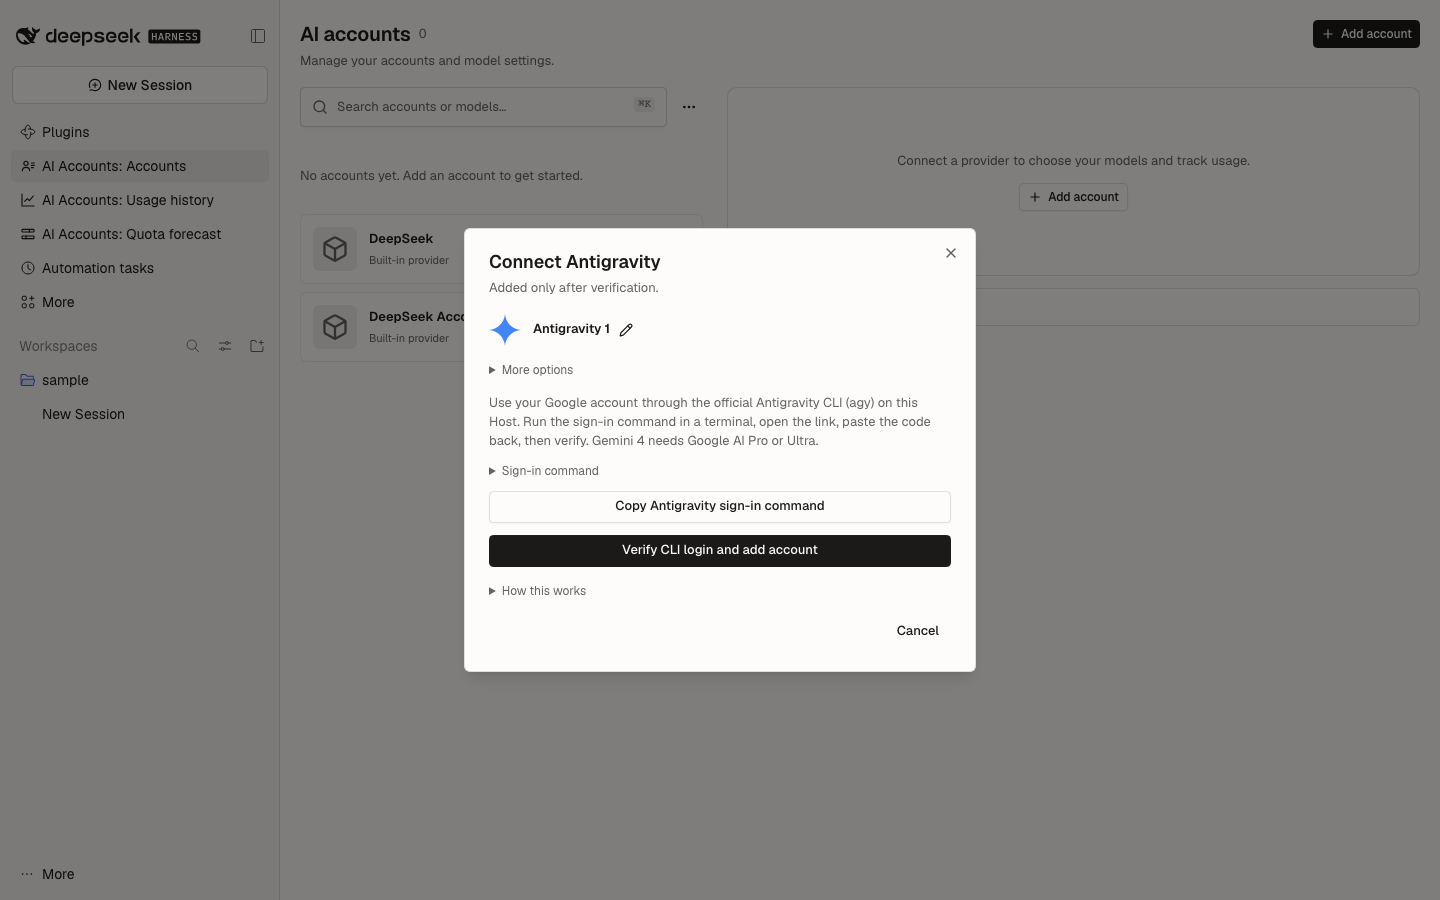
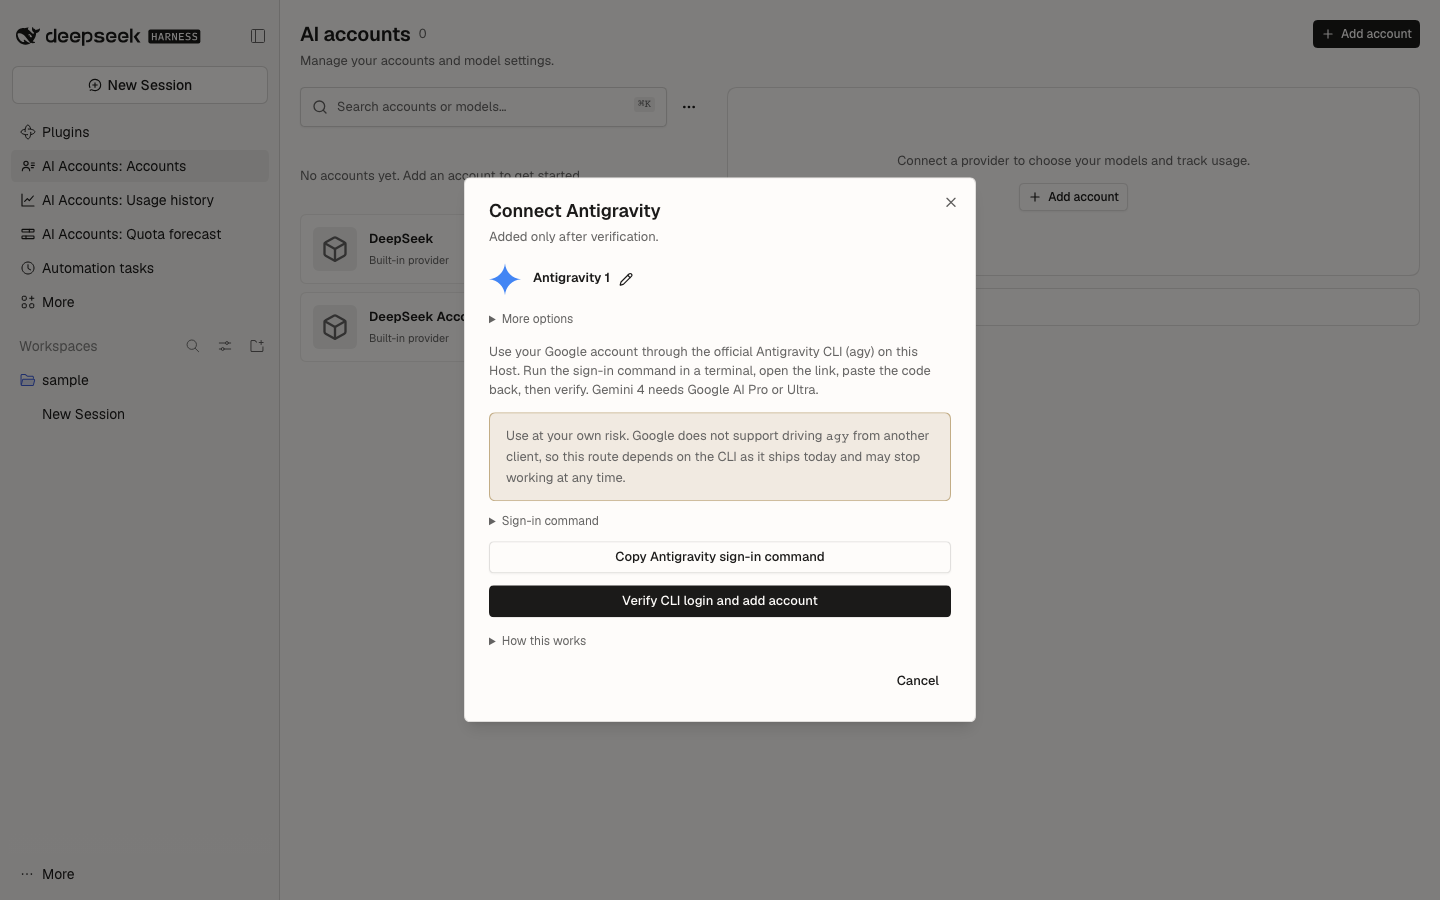
feat(ai-accounts): warn that the Antigravity account setup is use at your own risk (#286)
* fix(ai-accounts): keep the Antigravity safety warning in one paragraph

* docs(ai-accounts): show the Antigravity safety warning in the setup screenshot

Changed region(s): [[0.3125, 0.1867, 0.6875, 0.7156], [0.3125, 0.7467, 0.6875, 0.8089]]

diff --git a/plugins/@dshfiles/ai-accounts/src/account-setup-dialog.tsx b/plugins/@dshfiles/ai-accounts/src/account-setup-dialog.tsx
@@ -1,5 +1,6 @@
 import { useApi } from '@dshfiles/dshx/client'
 import { writeClipboard } from '@deepseek-ai/dsh-client-ui-primitives'
+import { Alert, AlertDescription } from '@dshfiles/plugin-ui/components/ui/alert'
 import { Button } from '@dshfiles/plugin-ui/components/ui/button'
 import { Dialog, DialogContent, DialogDescription, DialogFooter, DialogHeader, DialogTitle } from '@dshfiles/plugin-ui/components/ui/dialog'
 import { Input } from '@dshfiles/plugin-ui/components/ui/input'
@@ -346,6 +347,16 @@ const AccountSetupSession = (props: SetupPorts & { readonly request: AccountSetu
                           ? 'Use your Google account through the official Antigravity CLI (agy) on this Host. Run the sign-in command in a terminal, open the link, paste the code back, then verify. Gemini 4 needs Google AI Pro or Ultra.'
                           : 'Use an existing CLI login on this Host.'}
                   </p>
+                  {account.kind === 'antigravity' ? (
+                    <Alert variant="warning">
+                      <AlertDescription>
+                        <p>
+                          Use at your own risk. Google does not support driving <code>agy</code> from another client, so this route depends on the CLI as it
+                          ships today and may stop working at any time.
+                        </p>
+                      </AlertDescription>
+                    </Alert>
+                  ) : null}
                   <details className="dshx:text-xs">
                     <summary className="dshx:cursor-pointer dshx:text-muted-foreground">Sign-in command</summary>
                     <pre className="dshx:mt-2 dshx:overflow-x-auto dshx:rounded-md dshx:bg-muted dshx:p-3 dshx:text-xs">

diff --git a/plugins/@dshfiles/ai-accounts/src/account-setup-view.test.tsx b/plugins/@dshfiles/ai-accounts/src/account-setup-view.test.tsx
@@ -431,6 +431,12 @@ describe('actual account setup view with operation-owned QueryClient data', () =
     expect(field('API key or setup token value').type).toBe('password')
   })
 
+  it('warns that driving agy from another client is use-at-your-own-risk', async () => {
+    await mount()
+    await click('Antigravity account')
+    expect(document.querySelector('[role="dialog"]')?.textContent).toContain('Use at your own risk')
+  })
+
   it('returns OpenCode Go from an existing credential to manual key entry', async () => {
     await mount()
     await click('OpenCode Go account')

diff --git a/plugins/@dshfiles/ai-accounts/README.md b/plugins/@dshfiles/ai-accounts/README.md
@@ -264,6 +264,9 @@ run at once. `src/claude-cli.ts` holds the transport; a setup-token or API key k
 
 ![Connect an Antigravity account with the official agy sign-in](docs/screenshots/antigravity-accounts.png)
 
+> **Use at your own risk.** Google does not support driving `agy` from another client, so this route depends on the
+> CLI as it ships today and may stop working at any time.
+
 Google serves its individual plans (free, Google AI Pro, Google AI Ultra) to coding agents only through its own
 [Antigravity CLI](https://antigravity.google/docs/cli/acp/), `agy`: Gemini CLI
 [stopped serving them](https://github.com/google-gemini/gemini-cli/discussions/28017) on 2026-06-18, and reusing a
